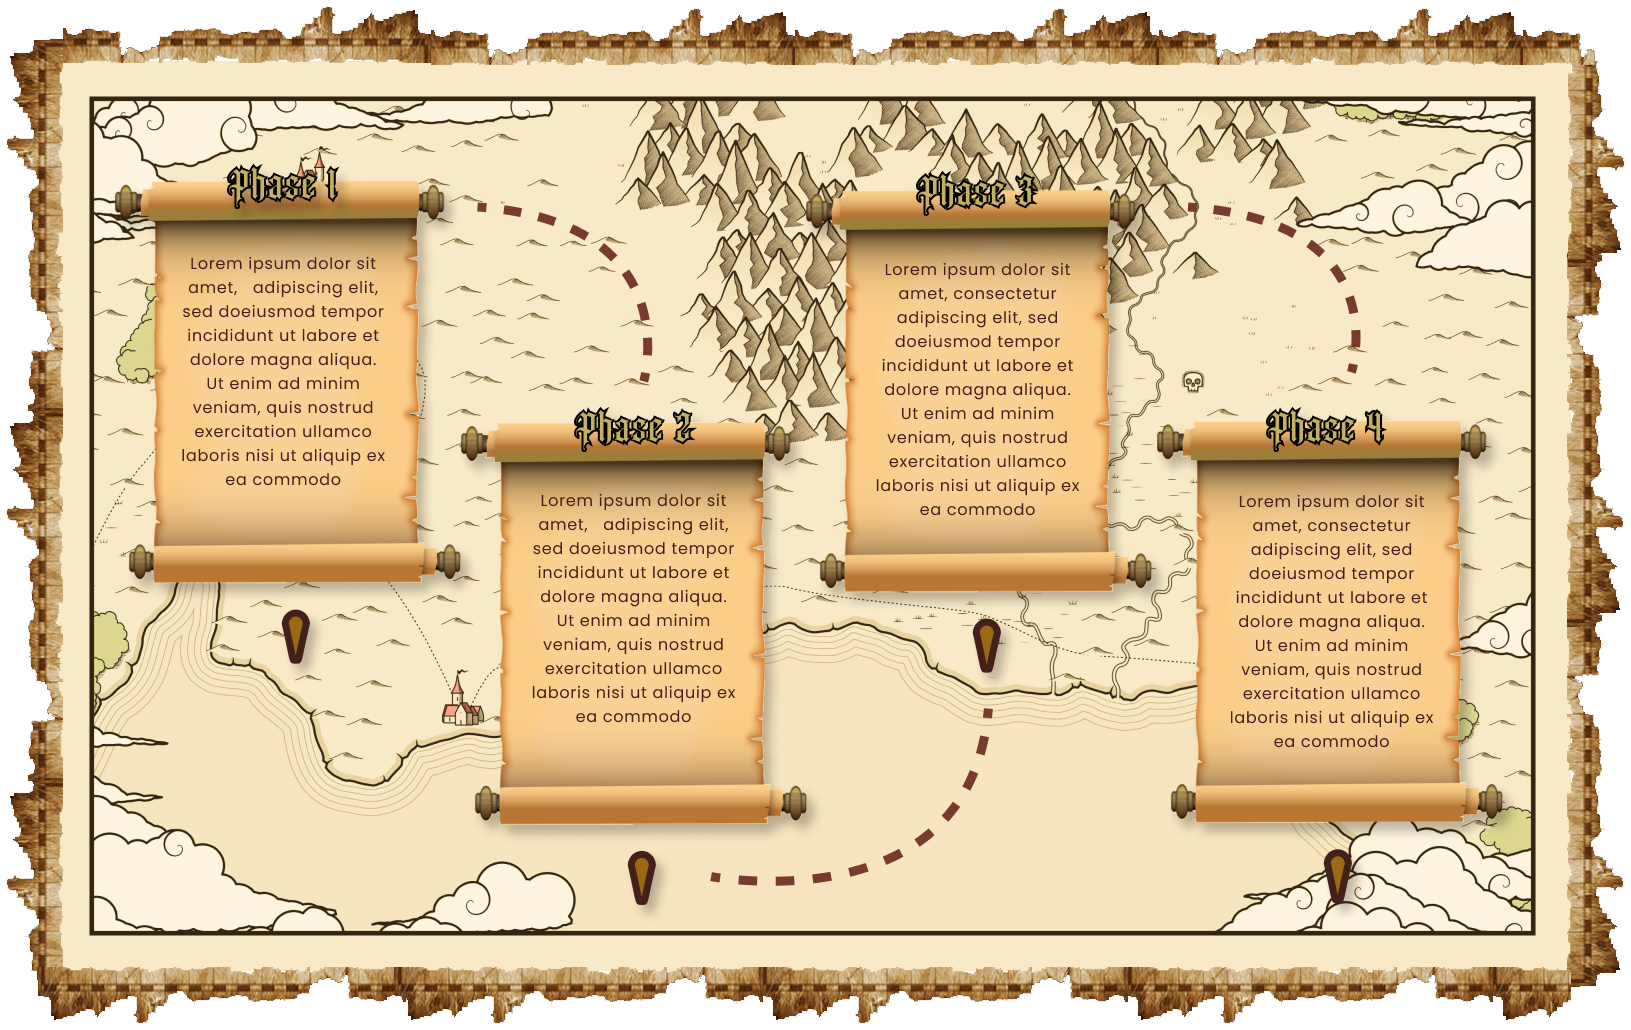
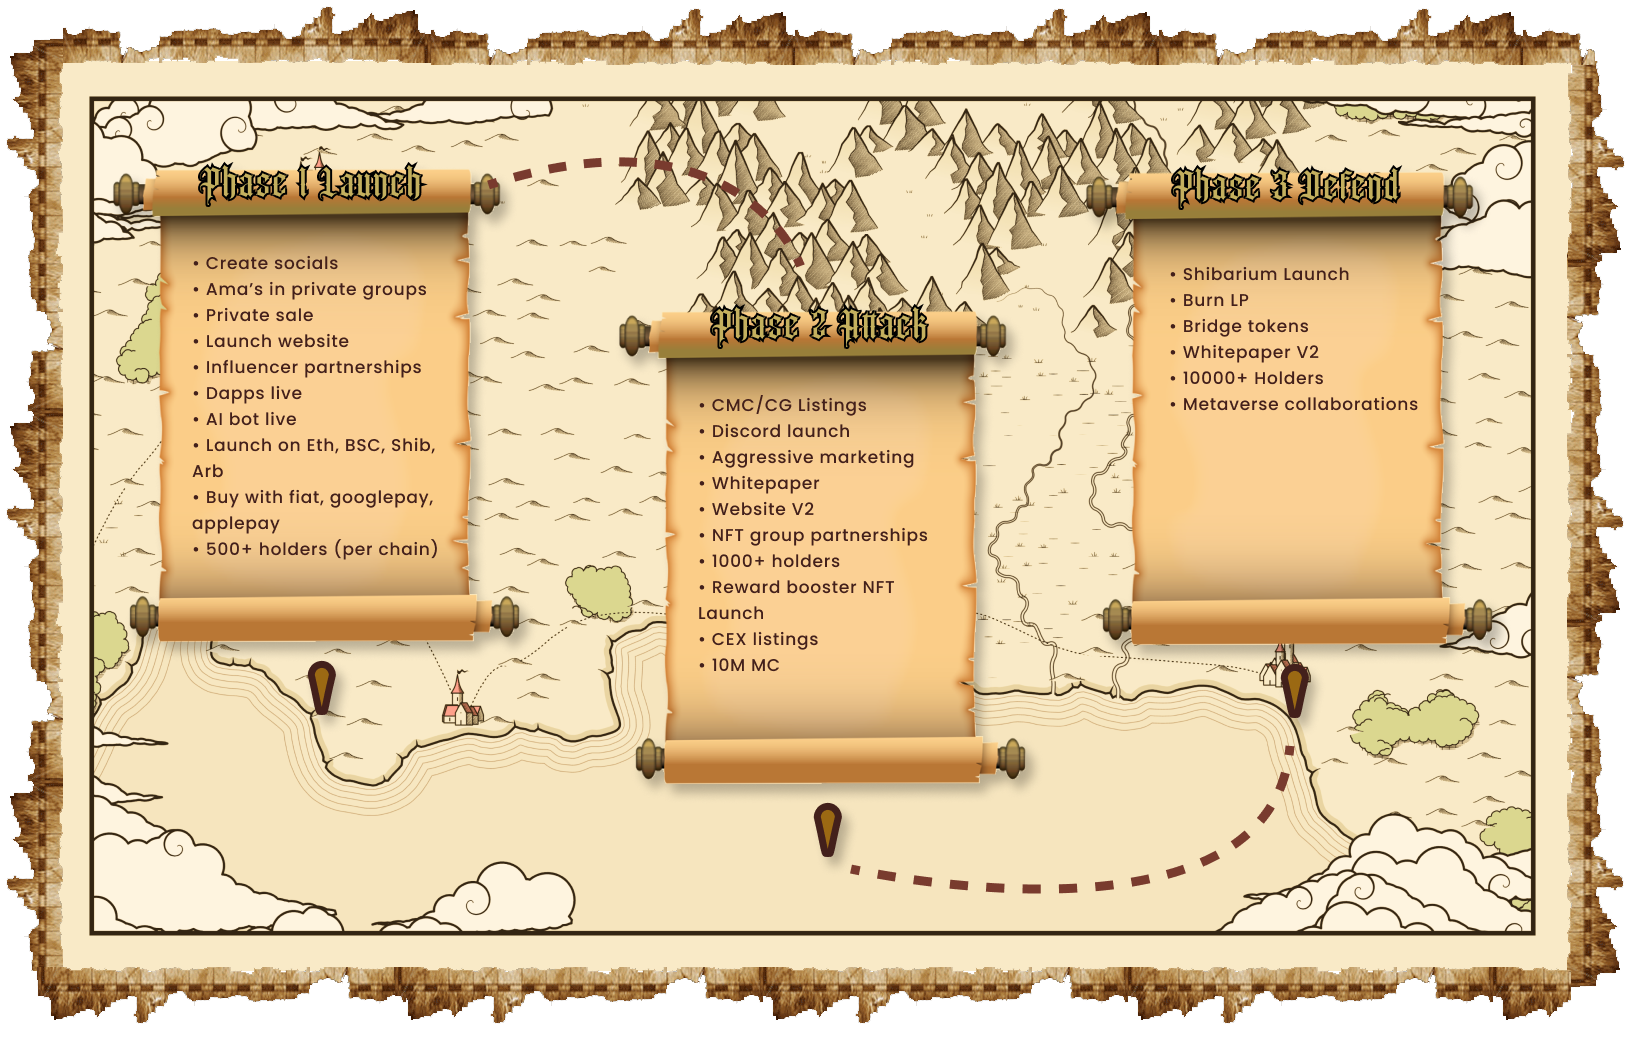
added contens

diff --git a/src/components/Roadmap.jsx b/src/components/Roadmap.jsx
@@ -1,14 +1,16 @@
-import React from "react";
+import React, { useState } from "react";
 import { motion } from "framer-motion";
 import Phase from "../templates/Phase";
 import "slick-carousel/slick/slick.css";
 import "slick-carousel/slick/slick-theme.css";
 import Slider from "react-slick";
 import { useInView } from "react-intersection-observer";
+import { MdOutlineClose } from 'react-icons/md'
+
 
 const Roadmap = () => {
 
-	const [ref, inView] = useInView({triggerOnce: true, threshold: 0.8})
+	const [ref, inView] = useInView({ triggerOnce: true, threshold: 0.8 })
 
 	const settings = {
 		dots: true,
@@ -18,25 +20,103 @@ const Roadmap = () => {
 		slidesToScroll: 1
 	};
 
+	const contentList = [
+		{
+			label: "Launch",
+			desc:
+				<>
+					<p>◈ Create socials</p>
+					<p>◈ Ama’s in private groups</p>
+					<p>◈ Private sale</p>
+					<p>◈ Launch website</p>
+					<p>◈ Influencer partnerships</p>
+					<p>◈ Dapps live</p>
+					<p>◈ AI bot live</p>
+					<p>◈ Launch on Eth, BSC, Shilb, Arb</p>
+					<p>◈ Buy with fiat, googlepay, applepay</p>
+					<p>◈ 500+ holders &#40;per chain&#41;</p>
+				</>
+
+		},
+		{
+			label: "Attack",
+			desc:
+				<>
+					<p>◈ CM/CG Listings</p>
+					<p>◈ Discord launch</p>
+					<p>◈ Aggressive marketing</p>
+					<p>◈ Whitepaper</p>
+					<p>◈ Website V2</p>
+					<p>◈ NFT group partnerships</p>
+					<p>◈ 1000+ holders</p>
+					<p>◈ Reward booster NFT launch</p>
+					<p>◈ CEX listings</p>
+					<p>◈ 10M MC</p>
+				</>
+		},
+		{
+			label: "Defend",
+			desc:
+				<>
+					<p>◈ Shilbarium Launch</p>
+					<p>◈ Burn LP</p>
+					<p>◈ Bridge tokens</p>
+					<p>◈ Whitepaper V2</p>
+					<p>◈ 10000+ Holders</p>
+					<p>◈ Metaverse collaborations</p>
+				</>
+		}
+	]
+
+	const [buttonActive, setActive] = useState(false)
+
+	const open = () => {
+		setActive(true)
+	}
+
+	const close = () => {
+		setActive(false)
+	}
+
+	const popup = (
+		<div className="w-full h-screen fixed left-0 top-0 z-50 grid place-items-center">
+			<div className="w-full h-full bg-black opacity-50 absolute top-0 left-0 cursor-pointer" onClick={close}></div>
+			<div className="z-10 relative w-fit h-auto px-10 pb-14 pt-10 bg-[#24191e] text-white rounded-xl">
+
+				<h1 className="text-center font-aot text-5xl">Disclaimer!</h1>
+
+				<MdOutlineClose className='absolute top-4 right-4  text-2xl cursor-pointer' onClick={close} />
+				<p className="font-poppins max-w-[45rem] mt-5 md:text-lg text-sm">Attack on Shiba refers to all components of the project, including but not limited to the overall project, token, website, and smart contracts. As discussed in this white paper, Attack on Shiba is not a licensed, unlicensed, or exempted financial or payment service of any kind, or in any jurisdiction. The information presented herein is intended only for reference and does not have any effective or legal meaning, irrespective of any implied meanings. Additionally, since Attack on Shiba operates as a decentralized community, it has no owners, shareholders, managers, directors, or any other entities exerting control over or upon it, directly or otherwise. Attack on Shiba makes no representations as to the value or utility of its token or other assets, and does not hold itself out to be a security or regulated financial instrument of any kind. The foregoing document is not intended as an invitation or solicitation to invest in Attack on Shiba or any other investment vehicle. Nor does Attack on Shiba make any representations whatsoever as to the future performance of its investments or underlying assets, nor those of any other entity connected to the same. All users bear complete responsibility to perform adequate due diligence, including seeking legal, financial, or regulatory counsel prior to interacting with Attack on Shiba, its website, tokens, and any other assets described herein.</p>
+
+			</div>
+		</div>
+	)
+
 	return (
 		<section className="w-full h-auto relative bg-gradient-to-b from-myblack to-[#523531]">
+
 			<div className="absolute w-full h-full bg-topog bg-[length:400px_400px] shadow-road"></div>
 
 			<div className="w-full h-auto mx-auto max-w-[1700px] md:px-10 px-5 text-main pt-24 z-10 relative pb-28">
+				{buttonActive ? popup : null}
 				<h1 className="font-aot lg:text-6xl text-5xl text-center">
 					Our Roadmap
 				</h1>
 
 				<div className="mt-10 flex flex-col pt-20 r md:w-full md:max-w-full mx-auto max-w-[20rem]">
-					<motion.img initial={{ scale: 0.5, opacity: 0 }} animate={ inView ? { scale: 1, opacity: 100 } : {}} transition={{duration: 0.4}} src="/roadmap.webp" alt="Roadmap" className="object-fit w-full hidden md:block" ref={ref}></motion.img>
+					<motion.img initial={{ scale: 0.5, opacity: 0 }} animate={inView ? { scale: 1, opacity: 100 } : {}} transition={{ duration: 0.4 }} src="/roadmap.webp" alt="Roadmap" className="object-fit w-full hidden md:block" ref={ref}></motion.img>
 					<Slider {...settings} className="md:hidden block">
-						<Phase text="Phase 1" />
-						<Phase text="Phase 2" />
-						<Phase text="Phase 3" />
-						<Phase text="Phase 4" />
+						{contentList.map((items, index) => {
+							return (
+								<Phase text={`Phase ${index + 1} ${items.label}`} content={items.desc} key={index} />
+							)
+						})}
 					</Slider>
 				</div>
+				<div className="mx-auto w-fit h-auto px-12 py-3 font-aot text-3xl mt-10 bg-[#4a2013] text-white rounded-lg cursor-pointer" onClick={open}>Disclaimer</div>
 			</div>
+
+
 		</section>
 	);
 };

diff --git a/src/components/hero.jsx b/src/components/hero.jsx
@@ -1,5 +1,6 @@
-import React, { useEffect } from 'react'
+import React, { useEffect, useState } from 'react'
 import { motion, useAnimation } from 'framer-motion';
+import { MdOutlineClose } from 'react-icons/md'
 
 const Hero = () => {
     const animation = useAnimation()
@@ -38,8 +39,46 @@ const Hero = () => {
         },
     }
 
+    const buywith = ['Eth', 'BNB', 'Shib', 'Arb']
+    const [buttonActive, setActive] = useState(false)
+
+    const open = () => {
+        setActive(true)
+    }
+
+    const close = () => {
+        setActive(false)
+    }
+
+    const popup = (
+        <div className="w-full h-screen fixed left-0 top-0 z-50 grid place-items-center">
+            <div className="w-full h-full bg-black opacity-50 absolute top-0 left-0 cursor-pointer" onClick={close}></div>
+            <div className="z-10 relative w-fit h-auto px-10 py-8 bg-[#24191e] text-white rounded-xl">
+
+                <MdOutlineClose className='absolute top-4 right-4 text-white text-2xl cursor-pointer' onClick={close} />
+                <h1 className='font-aot text-3xl text-center'>Choose payment method</h1>
+
+                <h1 className='font-aot text-3xl text-center'>Buy with:</h1>
+
+                <div className="flex items-center gap-x-3 mt-5 md:flex-row flex-col gap-y-3">
+                    {buywith.map((items, index) => {
+                        return (
+                            <div className='w-fit h-auto px-10 py-3 bg-button rounded-lg cursor-pointer hover:bg-buttonHover transition-all ease-in-out duration-300' key={index}>
+                                <p>{items}</p>
+                            </div>
+                        )
+                    })}
+                </div>
+            </div>
+        </div>
+    )
+
     return (
+
         <section className='w-full h-screen min-h-[600px] overflow-hidden relative flex flex-col bg-main sm:gap-y-7 gap-y-3 sm:justify-start justify-between bg-hero bg-cover md:bg-right sm:bg-[center_right_-10rem] z-10'>
+
+            {buttonActive ? popup : null}
+
             <div className='absolute top-0 w-full h-2 bg-button shadow-upper'></div>
 
             <div className='w-full max-w-[1700px] mx-auto sm:px-14 mt-14 relative h-[20%] '>
@@ -57,11 +96,11 @@ const Hero = () => {
                     <div className='max-w-[1580px] w-full mx-auto'>
                         <div className=' w-full mx-auto z-10 relative'>
                             <motion.p initial={{ opacity: 0 }} animate={{ opacity: 100 }} transition={{ duration: 1, delay: 0.9 }} className='md:max-w-[550px] xl:text-lg md:text-sm text-xs max-w-[290px] leading-4 text-center sm:text-left mx-auto font-pop'>
-                                Lorem ipsum dolor sit amet, consectetur adipiscing elit, sed doeiusmod tempor incididunt ut labore et dolore magna aliqua. Ut enim ad minim veniam, quis nostrud exercitation ullamco laboris nisi ut aliquip ex ea commodo consequat. Duis aute irure dolor in reprehenderit in voluptate velit esse cillum dolore eu fugiat nulla pariatur. Excepteur sint occaecat cupidatat non proident, sunt in culpa qui officia deserunt mollit anim id est laborum.
+                                Welcome to Attack on Shiba, the first meme of its kind that rewards holders through native cross-chain reflections. Attack on Shiba aims to protect the world of meme tokens by defending the city against evil AI manipulated Shiba's and boosting every chart with its unique technology.
                             </motion.p>
 
                             <motion.div initial={{ opacity: 0, y: 100 }} animate={{ opacity: 100, y: 0 }} transition={{ delay: 1, duration: 2, ease: [.21, 1.03, .27, 1] }} className='font-aot mt-9 flex gap-x-3 gap-y-3 text-xs md:text-md xl:text-xl'>
-                                <div className='w-fit h-auto px-10 py-3 bg-button cursor-pointer hover:bg-buttonHover transition-all ease-in-out duration-300'>
+                                <div className='w-fit h-auto px-10 py-3 bg-button cursor-pointer hover:bg-buttonHover transition-all ease-in-out duration-300' onClick={open}>
                                     <p>Buy token</p>
                                 </div>
                                 <div className='w-fit h-auto px-10 py-3 cursor-pointer text-main bg-none border-[1px] border-main hover:bg-main hover:text-button transition-all ease-in-out duration-300'>

diff --git a/src/templates/Phase.jsx b/src/templates/Phase.jsx
@@ -2,19 +2,19 @@ import React from 'react'
 import { motion } from 'framer-motion'
 import { useInView } from 'react-intersection-observer'
 
-const Phase = ({ text }) => {
+const Phase = ({ text, content }) => {
 
     const [ref, inView] = useInView()
     return (
         <motion.div initial={{ scale: 0.5, opacity: 0 }} animate={inView ? { scale: 1, opacity: 100 } : {}} transition={{ duration: 0.3 }} className='w-[20rem] h-[25rem] relative' ref={ref}>
             <img src="/paper.webp" alt="Paper" className='w-full object-fit h-full absolute z-0'></img>
             <div className="w-full h-full p-16 z-10 relative">
-                <h1 className='font-rye text-center absolute top-0 left-0 right-0 mx-auto text-button text-3xl uppercase'>
+                <h1 className='font-aot text-center absolute top-[3px] left-0 right-0 mx-auto text-button text-3xl'>
                     {text}
                 </h1>
-                <p className='text-button text-center font-pop'>
-                    Lorem ipsum dolor sit amet, consectetur adipiscing elit, sed doeiusmod tempor incididunt ut labore et dolore magna aliqua. Ut enim ad minim veniam, quis nostrud exercitation ullamco laboris nisi ut aliquip ex ea commodo
-                </p>
+                <div className='text-button text-left text-sm flex flex-col gap-y-[3px] font-pop my-auto h-fit absolute top-0 bottom-0 max-w-[11.6rem]'>
+                    {content}
+                </div>
             </div>
         </motion.div>
     )

diff --git a/src/App.jsx b/src/App.jsx
@@ -12,12 +12,15 @@ const App = () => {
 
     return (
         <>
-            <Hero />
+            <div className='z-50 relative'>
+                <Hero />
+
+            </div>
             <History />
             <Tokenomics />
             <Roadmap />
             <Contact />
-            <Footer/>
+            <Footer />
         </>
     )
 }
